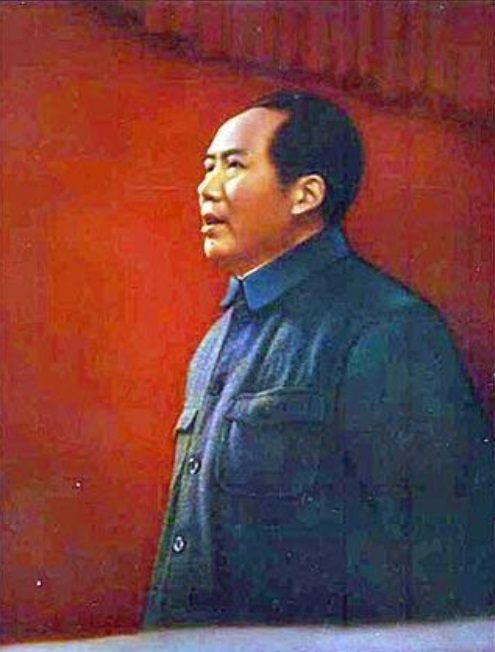
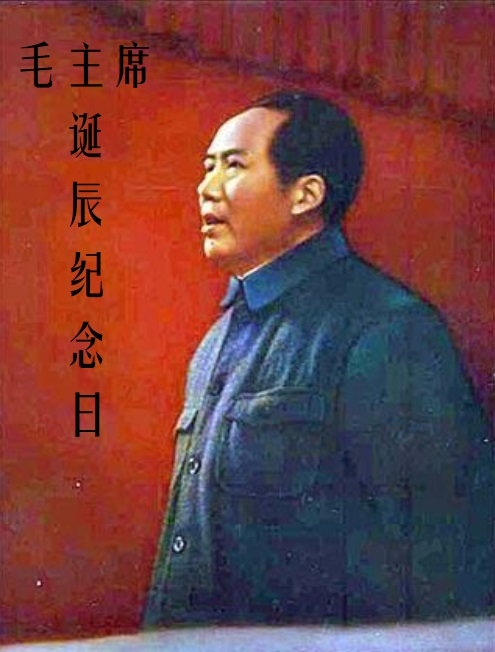
update

diff --git a/js/common.js b/js/common.js
@@ -219,8 +219,10 @@ function BlogAD() {
 	
 function importantDays(month, day) {
 	var re = "";
-	switch(month + day / 10) {
-		case 1.1:re = "Yuandan";break;case 1.15:re = "GoHome";break;case 3.12:re = "Planting";break;case 4.5:re = "Qingming";break;case 5.1:re = "LaborDay";break;case 5.4:re = "YouthDay";break;case 5.9:re = "MothersDay";break;case 6.1:re = "Children";break;case 6.14:re = "Duanwu";break;case 7.1:re = "Jiangdang";break;case 7.7:re = "Lugouqiao";break;case 8.1:re = "Jiangjun";break;case 9.10:re = "TeachersDay";break;case 9.18:re = "918";break;case 10.1:re = "Guoqing";break;case 10.2:re = "Zhongqiu";break;case 11.1:re = "AIDS";break;case 12.13:re = "Nanjing";break;case 12.26:re = "Maozhuxi";break;default:re = "GreatChina"
+	var day_new = 0;
+	if (day >= 10) {day_new = day / 10;}
+	switch(month + day_new / 10) {
+		case 1.1:re = "Yuandan";break;case 1.15:re = "GoHome";break;case 3.12:re = "Planting";break;case 4.5:re = "Qingming";break;case 5.1:re = "LaborDay";break;case 5.4:re = "YouthDay";break;case 5.9:re = "MothersDay";break;case 6.1:re = "Children";break;case 6.14:re = "Duanwu";break;case 7.1:re = "Jiangdang";break;case 7.7:re = "Lugouqiao";break;case 8.1:re = "Jiangjun";break;case 9.10:re = "TeachersDay";break;case 9.18:re = "918";break;case 10.1:re = "Guoqing";break;case 10.2:re = "Zhongqiu";break;case 11.1:re = "AIDS";break;case 12.13:re = "Nanjing";break;case 12.26:re = "Maozhuxi";break;default:re = "GreatChina";
 	}
 	return re;
 }
